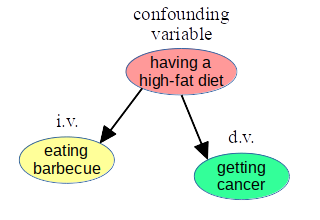
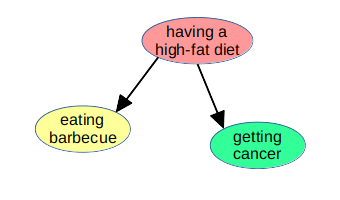
Finish "the bad case" for causality.

Changed region(s): [[0.0625, 0.03, 0.9062, 0.93]]

diff --git a/causality.tex b/causality.tex
@@ -19,23 +19,25 @@ about?
 \index{barbecue}
 \index{cancer}
 
+\vspace{-.1in}
 \begin{figure}[ht]
 \begin{minipage}{6in}
-\raisebox{-.5\height}{\includegraphics[width=0.5\textwidth]{causalDiagram.png}}
-\raisebox{-.5\height}{\includegraphics[width=0.4\textwidth]{causalDiagram2.png}}
+\raisebox{-.5\height}{\includegraphics[width=0.45\textwidth]{causalDiagram.png}}
+\raisebox{-.5\height}{\includegraphics[width=0.45\textwidth]{causalDiagram2.png}}
+\vspace{-.15in}
 \caption{Causal diagrams, each expressing a hypotheses about the causality
 among variables.}
 \label{fig:causalDiagrams}
 \end{minipage}
 \end{figure}
+\vspace{-.05in}
 
 The tool we used for this analysis was the \textbf{causal diagram}, examples of
 which appear in Figure~\ref{fig:causalDiagrams}. Each bubble represents one
-variable, with ``i.v.'' and ``d.v.'' annotations marking the independent and
-dependent variable of our analysis. Arrows pointing from one bubble to another
-asserts a causal relationship between the two: that the value of one is not
-merely \textit{associated with}, but is partially \textit{responsible for}, the
-value of the other. 
+variable. Arrows pointing from one bubble to another asserts a causal
+relationship between the two: that the value of one is not merely
+\textit{associated with}, but is partially \textit{responsible for}, the value
+of the one pointed at. 
 
 If you remember that particular example, there was an observational study
 suggesting that eating barbecue can increase one's risk of various types
@@ -47,7 +49,65 @@ The question we'll ask in this chapter is as follows: given a data set, is
 there any way to actually \textit{tell} which of several competing causal
 theories is true? In other words, if we have more than one hypothesis giving
 alternate explanations for how the patterns in the data set arrived, can the
-data itself be used to judge between them?
+\textit{data itself} be used to judge between them?
 
 And the answer is: sometimes. Let's learn when it can, and when it cannot.
 
+\section{The bad news: identical ``skeletons''}
+
+Before I get you too excited, let me say right at the outset that there are
+times when the data fails us in our quest to nail this down. This happens when
+the \textbf{skeleton}s of the two causal models are identical.
+
+\index{skeleton (of a causal diagram)}
+
+The skeleton of a causal diagram is simply the diagram you get if you
+\textit{remove the arrowheads}. Consider the two competing models in
+Figure~\ref{smokingDepression}. An observational study some years ago found an
+association between smoking cigarettes and experiencing clinical depression,
+and made the claim that therefore one of the many detriments to smoking
+(besides heart disease, lung cancer, and other things) was an emotional one.
+That represents the causal model on the left side of the diagram. But some
+objected and said, ``wait a minute...couldn't it instead be the case that
+people who are going through depression are seeking ways to cope with it, and
+that substances like nicotine could be one of those ways?'' This
+depression-causes-smoking hypothesis is on the right side. 
+
+\vspace{-.15in}
+\begin{figure}[ht]
+\begin{minipage}{6in}
+\raisebox{-.5\height}{\includegraphics[width=0.45\textwidth]{smokingDepression.png}}
+\raisebox{-.5\height}{\includegraphics[width=0.45\textwidth]{depressionSmoking.png}}
+\vspace{-.15in}
+\caption{Does smoking cause depression...or does depression lead to smoking?}
+\label{smokingDepression}
+\end{minipage}
+\end{figure}
+\vspace{-.05in}
+
+Unfortunately there is no way to resolve this by looking at the data alone.
+This is because if you remove the (one) arrowhead, you get the same skeleton
+(Figure~\ref{smokingDepressionSkeleton}). Note that ``the same skeleton'' means
+merely \textit{the same bubbles are connected to the same bubbles.} It does
+\textit{not} have anything to do with where those bubbles are positioned on the
+page.
+
+\vspace{-.1in}
+\begin{figure}[ht]
+\begin{center}
+\includegraphics[width=0.8\textwidth]{smokingDepressionSkeleton.png}
+\vspace{-.15in}
+\caption{The bad case: both causal diagrams have the \textit{same} skeleton.}
+\label{smokingDepressionSkeleton}
+\end{center}
+\end{figure}
+\vspace{-.05in}
+
+In this case, the only way to resolve which of the causal models is the true
+one is to investigate the phenomenon on the ground. We have to study the
+mechanisms -- physical and societal -- by means of which each of them might
+plausibly cause the other. Medical researchers could explore the effects of
+nicotine on the human brain, and determine whether there is a mechanism by
+which serotonin is reduced. Social psychologists could conduct surveys and
+focus groups and learn how often cigarettes are sought by victims of depression
+and why. But the data itself will not give a verdict.
